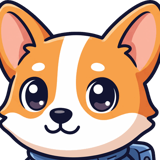
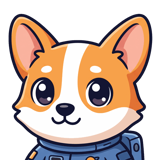
Snore: mascot heads centred, circle in the brand colour

diff --git a/snore/templates/board.html b/snore/templates/board.html
@@ -21,6 +21,10 @@
     .pw { position: relative; width: 84px; height: 84px; }
     .pic { width: 84px; height: 84px; border-radius: 50%; object-fit: cover; background: var(--bb); border: 2px solid var(--bd); display: block; }
     .pic.mascot { background: #fff; }
+    .pic.m-sreday { background: #713660; border-color: #713660; }
+    .pic.m-llmday { background: #26986A; border-color: #26986A; }
+    .pic.m-platformday { background: #E2971D; border-color: #E2971D; }
+    .pic.m-conf42 { background: #335eea; border-color: #335eea; }
     .badge { position: absolute; bottom: -6px; width: 32px; height: 32px; border-radius: 50%; display: flex; align-items: center; justify-content: center;
              background: rgba(255,255,255,.85); -webkit-backdrop-filter: blur(8px); backdrop-filter: blur(8px); border: 2px solid rgba(255,255,255,.95);
              box-shadow: 0 2px 10px rgba(0,0,0,.1); transition: background .2s; }
@@ -78,7 +82,7 @@
 </main>
 {{define "card"}}<div class="card glass" data-key="{{.Key}}">
     <div class="pw">
-        {{if .PhotoBox}}<img class="pic" src="photo/{{.PhotoBox}}" alt="" loading="lazy">{{else}}<img class="pic mascot" src="mascot/{{.Brand}}.png" alt="" loading="lazy">{{end}}
+        {{if .PhotoBox}}<img class="pic" src="photo/{{.PhotoBox}}" alt="" loading="lazy">{{else}}<img class="pic mascot m-{{.Brand}}" src="mascot/{{.Brand}}.png" alt="" loading="lazy">{{end}}
         {{with .LinkedInURL}}<a class="badge li" href="{{.}}" target="_blank" rel="noopener" title="LinkedIn"><svg viewBox="0 0 448 512" aria-hidden="true"><path fill="currentColor" d="M100.3 448H7.4V148.9h92.9zM53.8 108.1C24.1 108.1 0 83.5 0 53.8a53.8 53.8 0 0 1 107.6 0c0 29.7-24.1 54.3-53.8 54.3zM447.9 448h-92.7V302.4c0-34.7-.7-79.2-48.3-79.2-48.3 0-55.7 37.7-55.7 76.7V448h-92.8V148.9h89.1v40.8h1.3c12.4-23.5 42.7-48.3 87.9-48.3 94 0 111.3 61.9 111.3 142.3V448z"/></svg></a>{{end}}
         {{if .CFP.URL}}<a class="badge frog" href="{{.CFP.URL}}" target="_blank" rel="noopener" title="Submitted on cfp.ninja: {{.CFP.Event}}{{with .CFP.Status}} ({{.}}){{end}}"><img src="mascot/frog.png" alt="cfp.ninja"></a>{{end}}
     </div>
